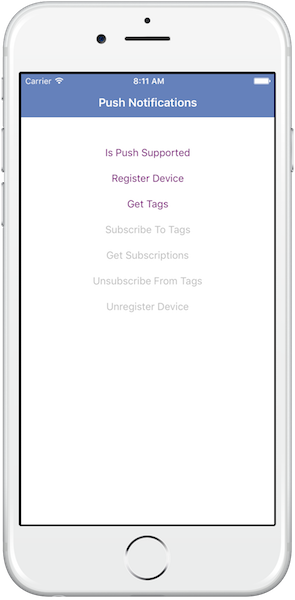
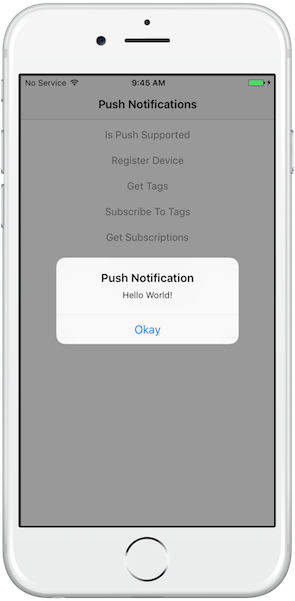
update tutorials

diff --git a/tutorials/en/foundation/8.0/all-tutorials.html b/tutorials/en/foundation/8.0/all-tutorials.html
@@ -178,7 +178,7 @@ Develop your applications by following the tutorials bellow: set-up your develop
 
     <ul>
         <li><a href="../notifications/push-notifications-overview/">Push Notifications Overview</a></li>
-        <li><span style="color:red">IN PROGRESS </span><a href="../notifications/sending-push-notifications/">Sending Push Notifications</a></li>
+        <li><a href="../notifications/sending-push-notifications/">Sending Push Notifications</a></li>
         <li><span style="color:red">IN PROGRESS </span><a href="../notifications/handling-push-notifications-in-cordova/">Handling Push Notifications in Cordova applications</a></li>
         <li><a href="../notifications/handling-push-notifications-in-ios/">Handling Push Notifications in iOS applications</a></li>
         <li><span style="color:red">IN PROGRESS </span><a href="../notifications/handling-push-notifications-in-android/">Handling Push Notifications in Android applications</a></li>

diff --git a/tutorials/en/foundation/8.0/authentication-and-security/protecting-external-resources/index.md b/tutorials/en/foundation/8.0/authentication-and-security/protecting-external-resources/index.md
@@ -25,6 +25,8 @@ This can either be done entirely with custom code, or using one of MobileFirst P
 ## Confidential Client
 For the external resource server to be able to use the `authorization.introspect` scope, the server needs to be registered as a **confidential client** via the MobileFirst Operations Console.  
 
+> Learn more in the [Confidential Clients](../confidential-clients/) tutorial.
+
 In the MobileFirst Operations Console, under **Settings** → **Confidential Clients**, add a new entry. Choose a **client ID** and **API secret** value. Make sure to set `authorization.introspect` as the **Allowed Scope**.
 
 <img class="gifplayer" alt="Configurting a confidential client" src="confidential-client.png"/>

diff --git a/tutorials/en/foundation/8.0/notifications/sending-push-notifications/index.md b/tutorials/en/foundation/8.0/notifications/sending-push-notifications/index.md
@@ -204,7 +204,7 @@ For testing purposes, Postman is used as described below:
     ```json
     {
         "message" : {
-            "alert" : "Test message"
+            "alert" : "Hello World!"
         }
     }
     ```
@@ -213,7 +213,6 @@ For testing purposes, Postman is used as described below:
     
 After clicking on the **Send** button, the device should have now received a notification:
 
-*Update this image with the real one*
 ![Image of the sample application](notifications-app.png)
 
 ### Customizing Notifications
